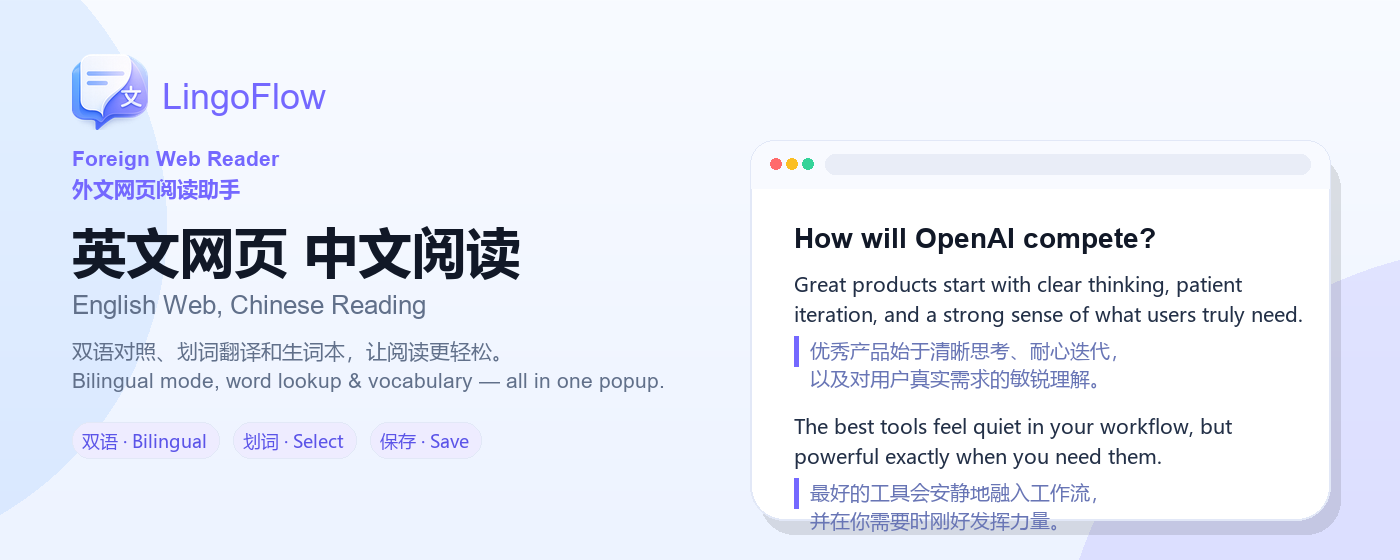
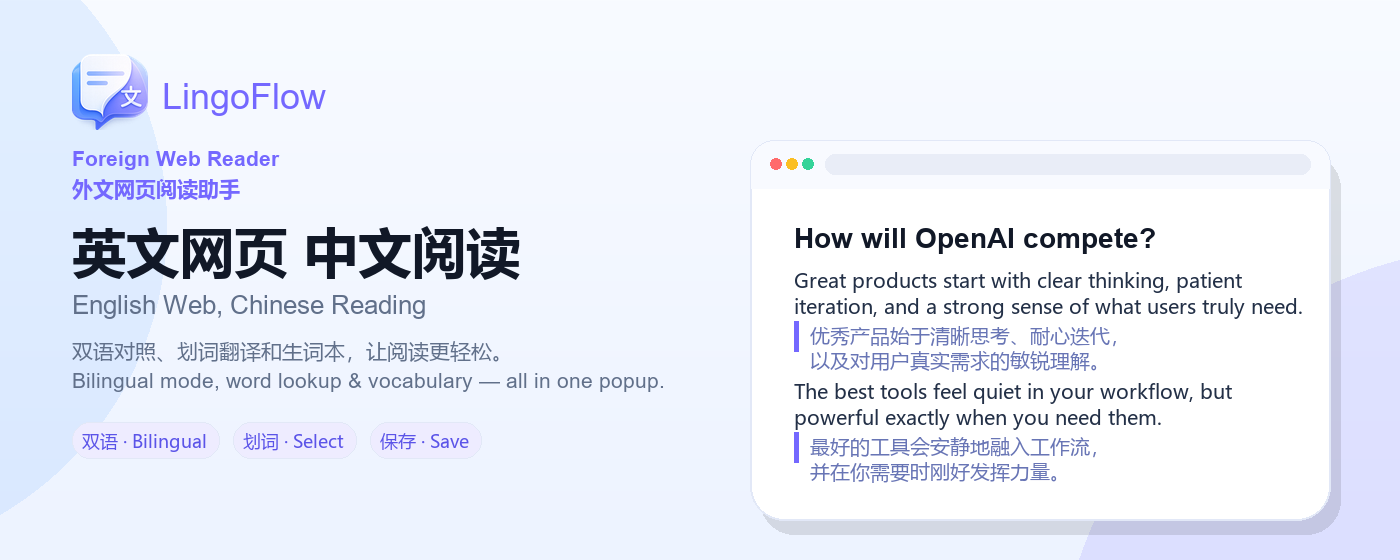
fix: 修复宣传图与截图按钮溢出/不对齐，压缩卡片行距防截断

Changed region(s): [[0.5529, 0.4857, 0.9214, 0.9714]]

diff --git a/scripts/generate-store-promo.py b/scripts/generate-store-promo.py
@@ -172,13 +172,13 @@ def large_promo():
         draw.ellipse((cx + dx, cy + 18, cx + dx + 11, cy + 29), fill=color)
     draw.rounded_rectangle((cx + 75, cy + 14, cx + cw - 20, cy + 34), radius=12, fill="#e9edf7")
 
-    # content
+    # content (compact spacing to fit inside the card without overflow)
     tx, ty = cx + 44, cy + bar_h + 34
     f_title = font(28, bold=True)
     f_body = font(20, chinese=True)
     f_trans = font(20, chinese=True)
     draw.text((tx, ty), "How will OpenAI compete?", fill=COLORS["ink"], font=f_title)
-    ty += f_title.size + 20
+    ty += f_title.size + 16
 
     body_lines = [
         "Great products start with clear thinking, patient",
@@ -186,15 +186,15 @@ def large_promo():
     ]
     for line in body_lines:
         draw.text((tx, ty), line, fill="#233047", font=f_body)
-        ty += f_body.size + 10
-    ty += 6
+        ty += f_body.size + 6
+    ty += 3
 
     draw.rectangle((tx, ty, tx + 4, ty + f_body.size + 10), fill=COLORS["violet"])
     trans_lines = ["优秀产品始于清晰思考、耐心迭代，", "以及对用户真实需求的敏锐理解。"]
     for line in trans_lines:
         draw.text((tx + 16, ty), line, fill="#6875b5", font=f_trans)
-        ty += f_trans.size + 8
-    ty += 20
+        ty += f_trans.size + 5
+    ty += 6
 
     body_lines2 = [
         "The best tools feel quiet in your workflow, but",
@@ -202,13 +202,13 @@ def large_promo():
     ]
     for line in body_lines2:
         draw.text((tx, ty), line, fill="#233047", font=f_body)
-        ty += f_body.size + 10
-    ty += 6
+        ty += f_body.size + 6
+    ty += 3
     draw.rectangle((tx, ty, tx + 4, ty + f_body.size + 10), fill=COLORS["violet"])
     trans_lines2 = ["最好的工具会安静地融入工作流，", "并在你需要时刚好发挥力量。"]
     for line in trans_lines2:
         draw.text((tx + 16, ty), line, fill="#6875b5", font=f_trans)
-        ty += f_trans.size + 8
+        ty += f_trans.size + 5
 
     img.save(OUT / "top-promo-1400x560.png")
 

diff --git a/scripts/generate-store-screenshots.py b/scripts/generate-store-screenshots.py
@@ -275,13 +275,27 @@ def screenshot_02_selection():
     cy += 10
     draw.rectangle((cx, cy, cx + 3, cy + F["small"].size + 10), fill="#b9b0ff")
     draw.text((cx + 14, cy), "\"The role demands strong problem-solving skills.\"", fill="#bdb7df", font=F["small"])
-    # toolbar
+    # toolbar — dynamic width and vertically centered text
     tx, ty = 120, 620
-    rounded_rect(draw, (tx, ty, tx + 230, ty + 54), "#29254e", radius=18)
-    for i, label in enumerate(["Translate", "Copy", "Save"]):
-        lx = tx + 14 + i * 76
-        draw.rounded_rectangle((lx, ty + 12, lx + 68, ty + 42), radius=12, fill="#7468ff")
-        draw.text((lx + 34, ty + 20), label, fill="white", font=F["small"], anchor="ma")
+    labels = ["Translate", "Copy", "Save"]
+    f_btn = F["small"]
+    btn_h = 30
+    pad_x = 14
+    gap = 10
+    side = 14
+    x = tx + side
+    buttons = []
+    for label in labels:
+        lw = int(draw.textlength(label, font=f_btn))
+        bw = lw + pad_x * 2
+        buttons.append((x, bw, label))
+        x += bw + gap
+    toolbar_w = x - gap + side
+    rounded_rect(draw, (tx, ty, tx + toolbar_w, ty + 54), "#29254e", radius=18)
+    for bx, bw, label in buttons:
+        by = ty + 12
+        rounded_rect(draw, (bx, by, bx + bw, by + btn_h), radius=12, fill="#7468ff")
+        draw.text((bx + bw // 2, by + btn_h // 2), label, fill="white", font=f_btn, anchor="mm")
     img.save(OUT / "02-selection-translation.png")
 
 
@@ -409,7 +423,7 @@ def screenshot_05_support():
     bw, bh = 220, 54
     bx = x + 28
     draw.rounded_rectangle((bx, by, bx + bw, by + bh), radius=16, fill=COLORS["blue"])
-    draw.text((bx + bw // 2, by + 16), "Start Foreign Reading", fill="white", font=F["small"], anchor="ma")
+    draw.text((bx + bw // 2, by + bh // 2), "Start Foreign Reading", fill="white", font=F["small"], anchor="mm")
     img.save(OUT / "05-privacy-support.png")
 
 
